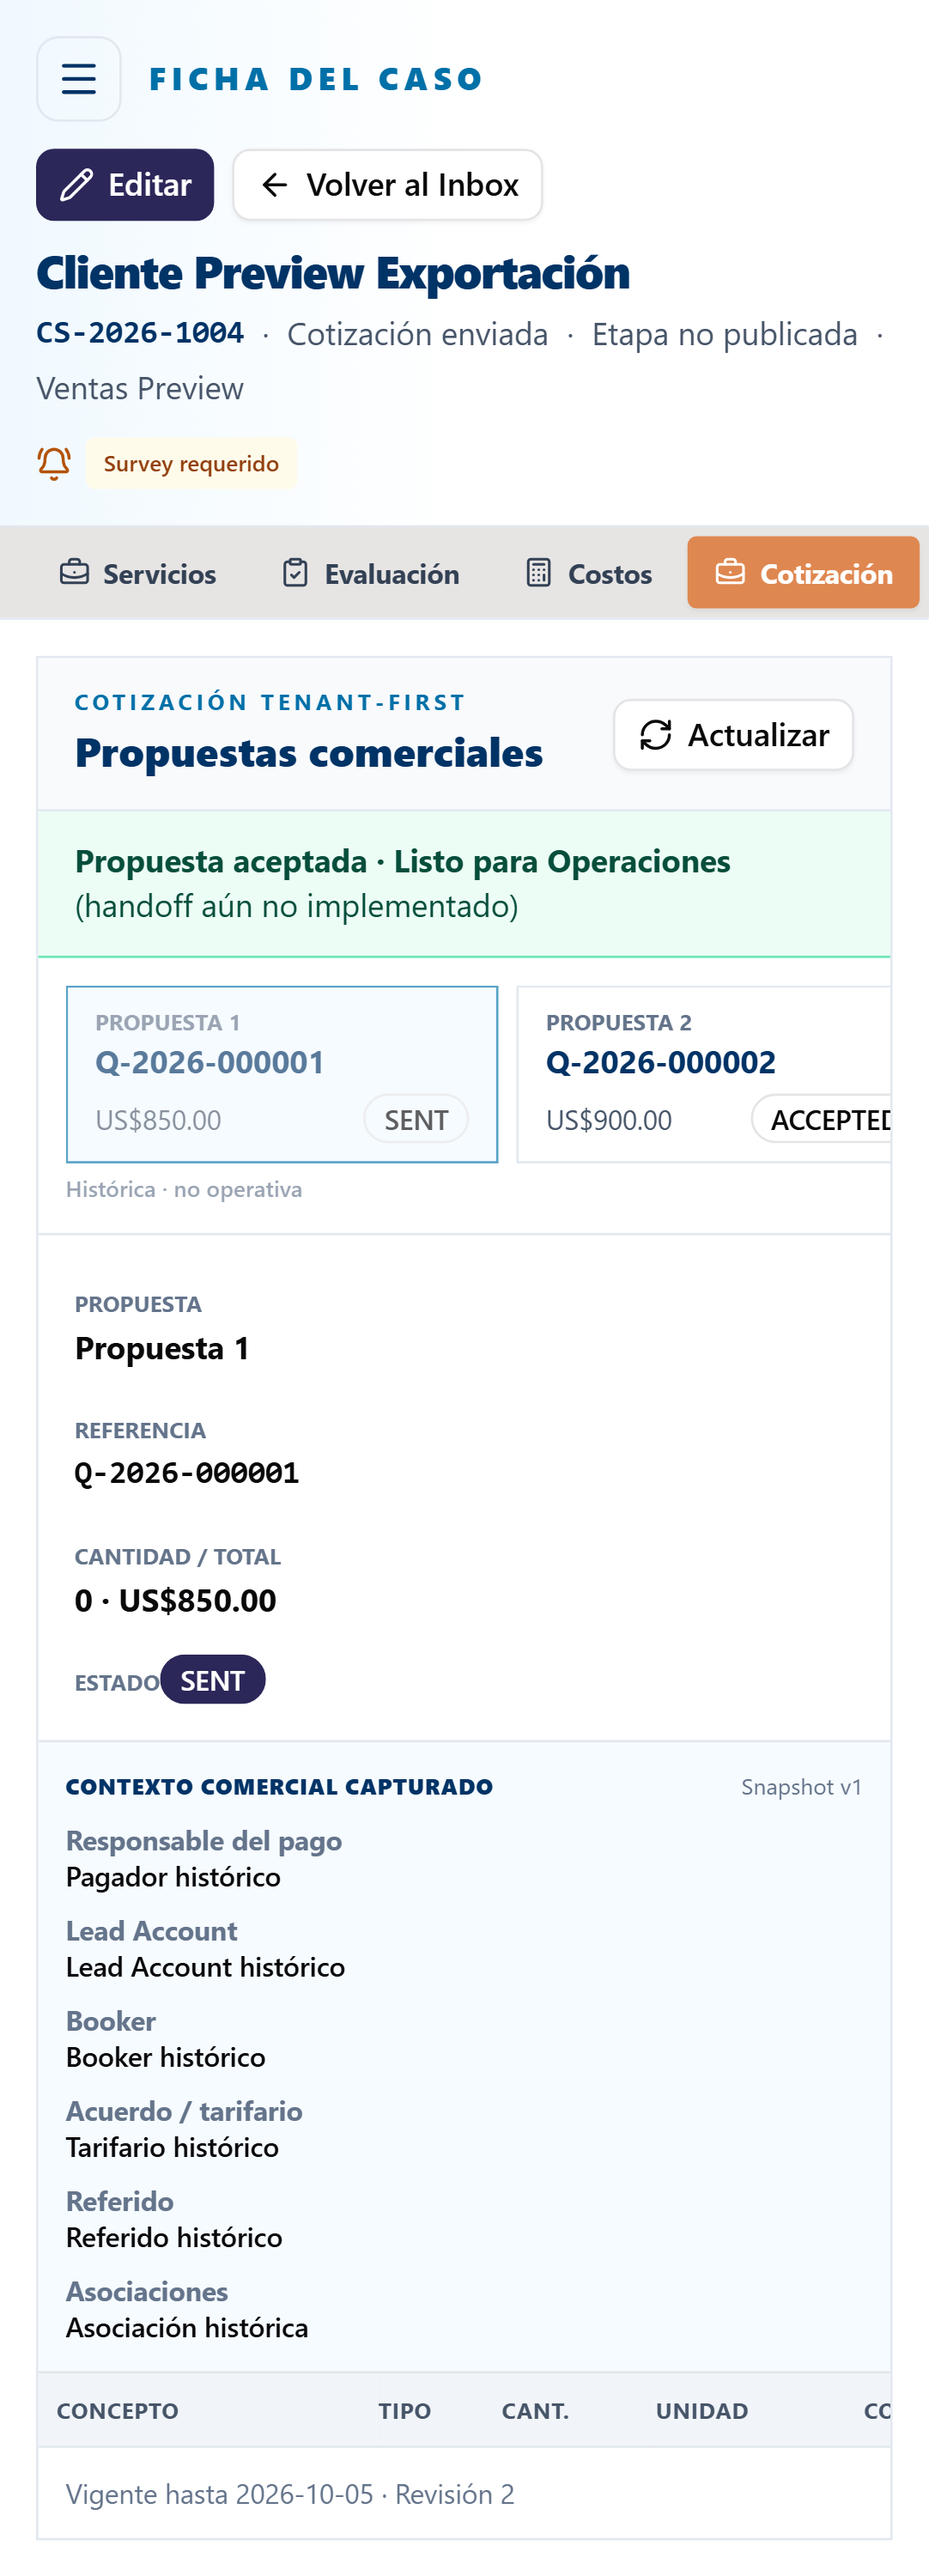
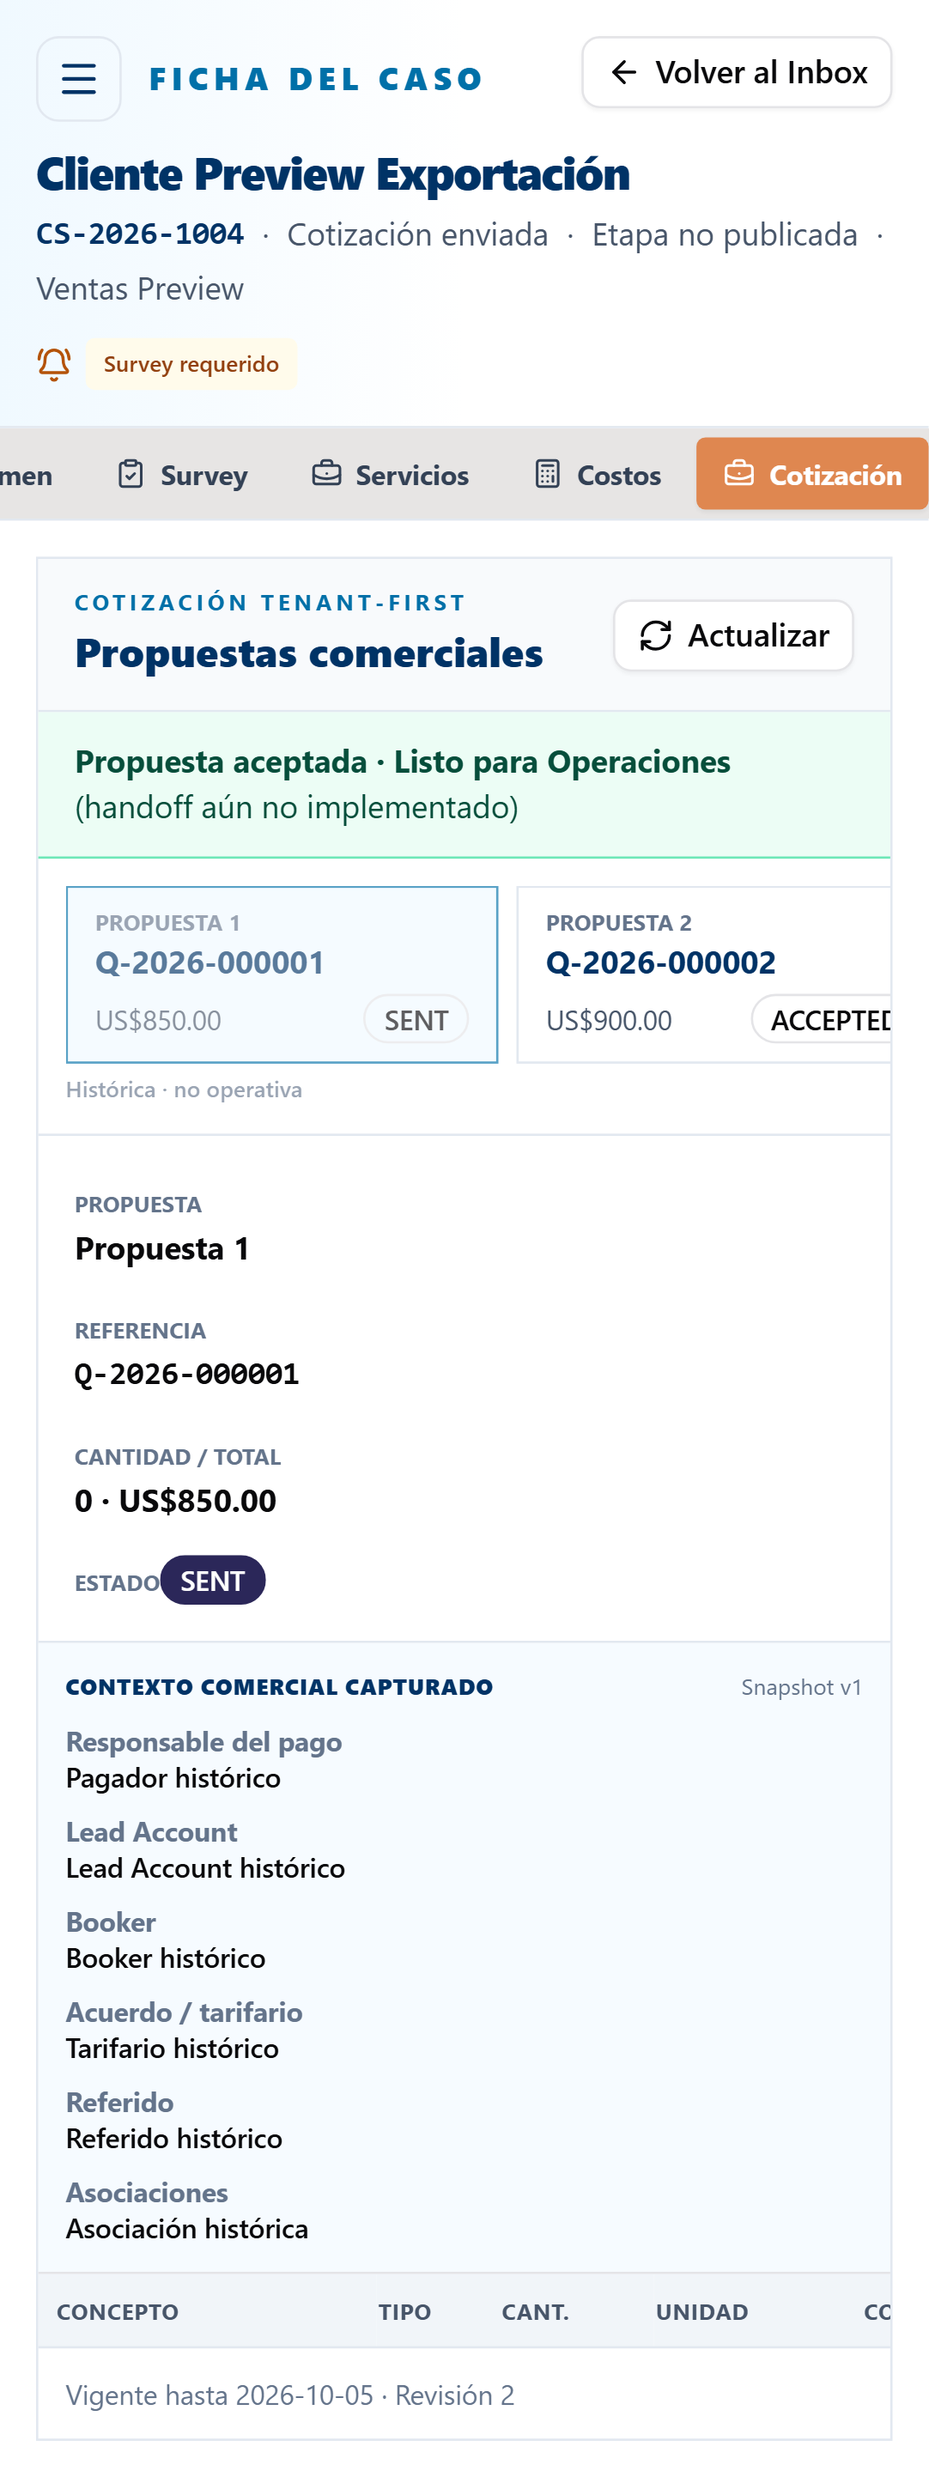
docs(preview): record service package review evidence

diff --git a/docs/V17-SERVICE-PACKAGES-PREVIEW-15B-RESULT.md b/docs/V17-SERVICE-PACKAGES-PREVIEW-15B-RESULT.md
@@ -1,0 +1,182 @@
+# V17-SERVICE-PACKAGES-PREVIEW-15B — Resultado
+
+## A. Resumen
+
+Preview integrada de Configuración de Servicios 15A y correcciones UX Comercial. El flujo publicado queda `ICP → Survey → Servicios → Costos → Cotización`, sin Portal Cliente, Ingeniería/Carpintería ni activación productiva.
+
+## B. Rama/base/HEAD
+
+- Rama: `feature/v17-consolidated-preview`.
+- Base aprobada: `a6a27e8bdebf140057727e399cf7aacfea1f1b56`.
+- HEAD publicado: registrado en el informe de entrega de 15B.
+
+## C. Preview DB
+
+- Branch: `br-mute-credit-ahxnvfx0`.
+- Base aislada: `v17_consolidated_preview_10b`.
+- Fixtures: seis casos sintéticos, seis Client, tres identidades, tres paquetes y tres políticas.
+
+## D. Migraciones
+
+- Aplicación: `33 → 34`.
+- Estado final: 34 aplicadas, 0 pendientes, 0 fallidas, 0 checksum mismatches.
+- Drift: vacío.
+- Migración 35: ausente.
+
+## E. URL Preview
+
+La URL inmutable se registra en el informe de entrega después del build remoto.
+
+## F. Inbox
+
+Conserva la cola compacta, supervisión master-detail y acciones hermanas accesibles. La tarjeta selecciona el resumen; la única acción `Ficha del caso` abre el workspace completo.
+
+## G. Dir. origen
+
+Publica exclusivamente la dirección compacta estructurada de `PipelineCaseRouteSnapshot`; no usa `originLocation` legacy.
+
+## H. Dir. destino
+
+Publica exclusivamente el snapshot estructurado vigente y representa de forma explícita la ausencia de destino.
+
+## I. METRO/INTERIOR
+
+Para LOCAL consume la clasificación del último Logistics Plan publicado. `INTERIOR` muestra icono, texto y rojo accesible; no existe geometría ni límite hard-coded en frontend. IMPORT/EXPORT permanecen neutrales.
+
+## J. Ficha button
+
+Se eliminó el CTA duplicado del resumen. La fila conserva una sola acción natural `Ficha del caso`.
+
+## K. Edit policy
+
+`Editar` general existe solamente en el resumen seleccionado del Inbox y sujeto a permisos. No aparece dentro de Resumen, Survey, Servicios, Costos o Cotización.
+
+## L. Survey tab
+
+La etiqueta principal es `Survey`. La Ficha publica exactamente: Resumen, Survey, Servicios, Costos y Cotización.
+
+## M. Survey methods
+
+Labels consolidados: Visita presencial, Visita virtual, Listado + fotografías, Reporte escrito, Voxme, Mini-visita y No requiere Survey.
+
+## N. Presencial
+
+Permanece conectado a Scheduling, evaluador, agenda, zona, buffers, Visit Fee y comunicaciones.
+
+## O. Virtual
+
+Permite cita, preparación y evaluador sin traslado físico ni Visit Fee de viaje inferido.
+
+## P. Listado/fotos
+
+Se representa como información aportada por el cliente y procesada dentro de la misma autoridad Survey; no crea un Survey paralelo.
+
+## Q. Mini-visita
+
+El fixture E contiene cinco tipos y once unidades. El dominio acepta hasta diez tipos distintos, rechaza el tipo once y permite editar líneas existentes.
+
+## R. Peso/volumen
+
+Cada línea conserva versión de catálogo, métricas unitarias, cantidad y fuente; totales publicados como `Estimado / Aproximado` con fuente `MINI_SURVEY`.
+
+## S. Upgrade Survey
+
+La captura Mini queda como información inicial del mismo caso y puede ser sucedida por Presencial, Virtual o Listado + fotografías sin duplicar Client o PipelineCase.
+
+## T. Comunicaciones
+
+Existe una sola superficie completa en Resumen. Survey y Cotización sólo ofrecen accesos contextuales a esa autoridad.
+
+## U. Servicios
+
+La configuración por caso muestra modo, principal, complementarios, paquete, personal, materiales, equipos, duración, precedencia y política.
+
+## V. Packages
+
+Fixtures publicados: Local estándar, Exportación con Crating y Local Premium; código, nombre y versión se muestran en formato compacto.
+
+## W. Material policies
+
+LOCAL demuestra consumible nuevo, contenedor reutilizable, `SALE`, `RENTAL/USAGE`, `RETURNABLE` y mantenimiento/reposición. EXPORT demuestra mezcla sintética configurada 70/30, no global.
+
+## X. Client override
+
+El escenario D publica `100% material nuevo` como override del snapshot del caso; el paquete maestro permanece inmutable.
+
+## Y. Crating requirement
+
+El escenario EXPORT muestra `Crating requerido` como requirement. Ingeniería/Carpintería continúa fuera de este lote.
+
+## Z. Costing
+
+Consume el Logistics Plan y la configuración publicada; los escenarios configurables avanzan y el proveedor sin precio conserva blocker explícito.
+
+## AA. Quote
+
+Se conservan tres propuestas sintéticas y una aceptación en el escenario D. No se duplicó el panel de Comunicaciones.
+
+## AB. Hub/OSi-Mobile
+
+Hub mantiene Comercial CRM y Administración como autoridades separadas. La App Evaluador continúa accesible desde OSi-Mobile y desde el caso autorizado.
+
+## AC. Browser
+
+- Preview integrada: 30/30, seis proyectos, cero retries.
+- Servicios: 18/18, seis proyectos, cero retries.
+- Regresión Comercial focal corregida y verde.
+
+## AD. Mobile
+
+Chromium, Firefox y WebKit móvil conservaron lista, Ficha, tabs, dirección estructurada, alerta INTERIOR y navegación ERP sin overflow funcional.
+
+## AE. Guards
+
+Guard 15B: 13 negativas. Consolidated Preview: 14 negativas. 12C: 12 negativas. Servicios 15A: 17 negativas. Cubren Survey, Mini >10, fuente, Communications única, Ruta legacy, CTAs duplicados, Edit interno, clasificación hard-coded, migración 35 y activación Production.
+
+## AF. Comparación histórica
+
+### CONSERVADO
+
+- `SalesQuoteWorkspace`: secuencia Survey/Costing/Cotización y contexto comercial.
+- Scheduling/Visit: agenda, evaluador, métodos y Visit Fee.
+- NewCase/Inbox: densidad, selección y acceso a Ficha.
+- Precarga Mini: inventario por tipo y cantidad.
+- Templates/communications: plantillas y comunicación contextual.
+
+### MEJORADO
+
+- Autoridades tenant-first, DTO cerrados, snapshots publicados, fuente de métricas y lazy authorization.
+- Mini limitada por tipos, no unidades; direcciones estructuradas; una sola autoridad de Comunicaciones.
+- Paquetes y políticas versionados reemplazan porcentajes o recursos implícitos.
+
+### FALTANTE
+
+- Upgrade transaccional Mini → Survey formal asistido.
+- Ingeniería/Carpintería para Crating, Portal Cliente y transportes externos.
+- Planeación operacional detallada posterior a Comercial.
+
+### DEGRADADO
+
+- Ninguna capacidad aprobada fue degradada. Los textos legacy de ruta se omiten deliberadamente cuando no existe snapshot estructurado.
+
+## AG. Production verification
+
+No se consultó ni modificó Production, variables, deployments o aliases. `productionApiEnabled=false`.
+
+## AH. Riesgos
+
+- Casos sin Logistics Plan publicado no pueden recibir una clasificación METRO/INTERIOR autoritativa y se muestran neutrales.
+- Mini-visita sigue siendo aproximada; no sustituye una publicación formal cuando la política la exige.
+- El override del cliente requiere futura experiencia administrativa para comparación y aprobación avanzada.
+
+## AI. Worktree
+
+Se entregará limpio después de commits y push normal.
+
+## AJ. Push/PR
+
+Se actualizará la rama consolidada existente mediante push normal. No se crea migración 35 ni se fusiona a Production.
+
+## AK. Recomendación visual
+
+Revisar especialmente en la URL inmutable: alerta INTERIOR del escenario B, método Mini del escenario E, pestaña Servicios del escenario C y override 100% nuevo del escenario D. Detener el siguiente módulo hasta aprobación visual.
